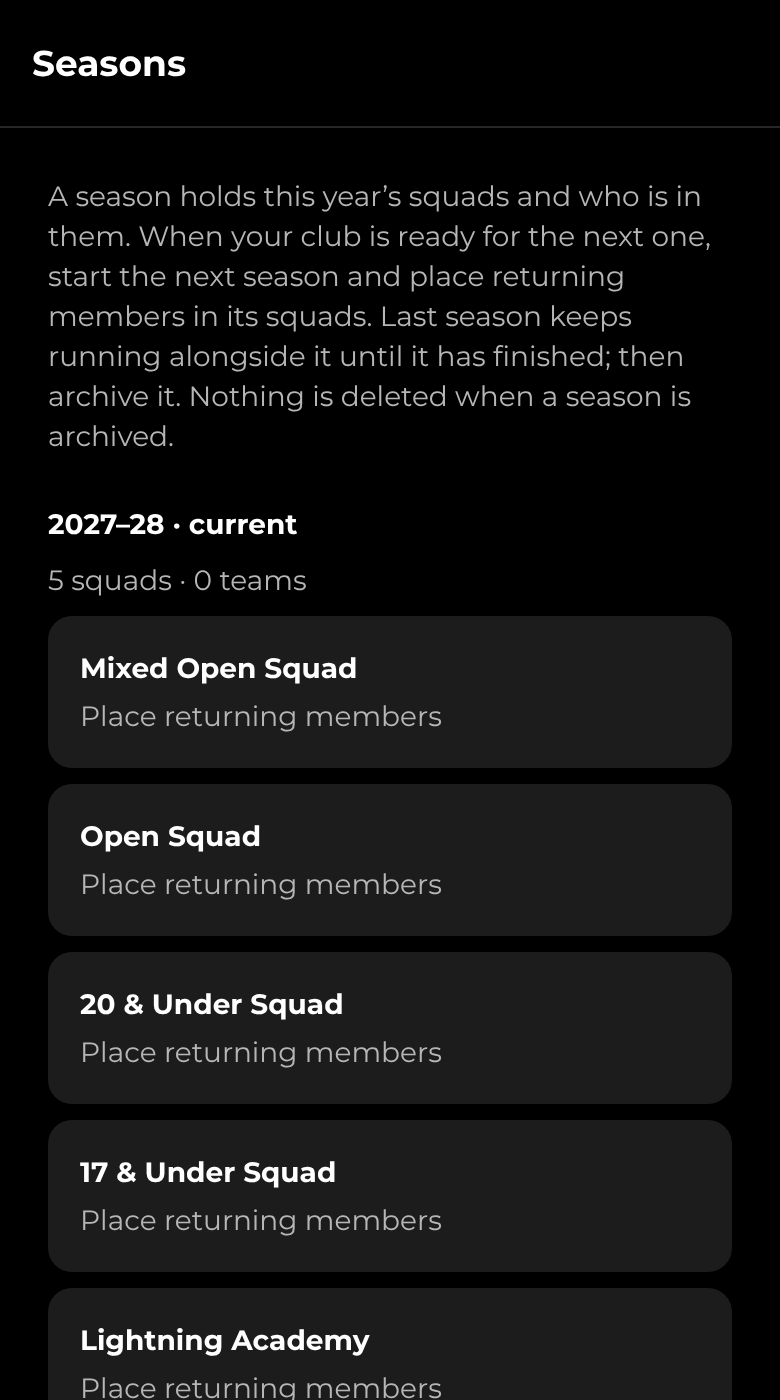
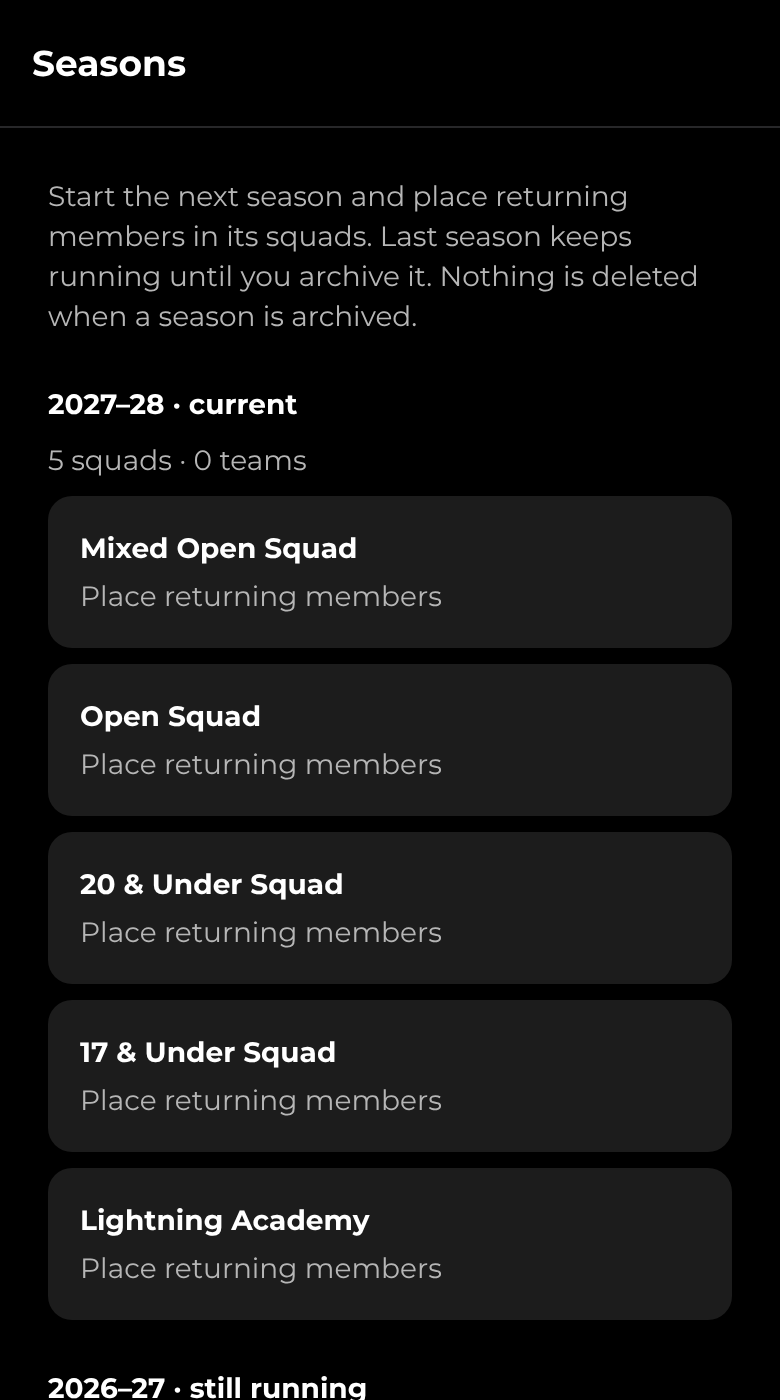
Trim the seasons explanation to what's needed to use the screen
Claude-Session: https://claude.ai/code/session_01HxGQCnUvSVydHnW1SEXAbD

Changed region(s): [[0.0615, 0.1229, 0.9538, 1.0], [0.8615, 0.2764, 0.8923, 0.3071]]

diff --git a/src/app/admin/seasons.tsx b/src/app/admin/seasons.tsx
@@ -62,10 +62,8 @@ export default function SeasonsScreen() {
   return (
     <Screen>
       <ThemedText type="small" themeColor="textSecondary">
-        A season holds this year’s {word}s and who is in them. When your club is ready for the next
-        one, start the next season and place returning members in its {word}s. Last season keeps
-        running alongside it until it has finished; then archive it. Nothing is deleted when a
-        season is archived.
+        Start the next season and place returning members in its {word}s. Last season keeps running
+        until you archive it. Nothing is deleted when a season is archived.
       </ThemedText>
 
       {/* One season at a time: archive last season before starting another. */}

diff --git a/docs/user-guide.md b/docs/user-guide.md
@@ -1004,10 +1004,7 @@ With squads on:
 
 ### Seasons
 
-A season holds the club's squads and teams for one year and who is in them. Each club sets its
-own timing: the season might start at selections and finish a few weeks after the main
-competition, and the dates can move from year to year. **Seasons** handles the change-over
-whenever your club is ready:
+**Seasons** handles the change-over to a new season:
 
 1. **Start the next season.** This creates empty squads with the same names, and their squad
    calendars, for the new season (for example 2027–28). Nobody is moved, and last season keeps
@@ -1207,8 +1204,8 @@ name, the date it was made and page numbers, and anything that needs attention i
   lists everyone with a course not yet approved, in red if a due date has passed, then each course
   lists who must complete it, where they're up to, when they completed it and who checked it.
 - **Attendance** (when Attendance is on): pick the **Period** (last 4 weeks, last 3 months, this
-  season since it was started in **Seasons**, or **Choose dates** for a from and to date) and the
-  **Squads and teams**: **All**, **Whole club events**, or any squads and teams. A squad includes the teams named from it. Each
+  season, or **Choose dates** for a from and to date) and the **Squads and teams**: **All**,
+  **Whole club events**, or any squads and teams. A squad includes the teams named from it. Each
   group lists its athletes with sessions present, absent and their attendance rate, followed by
   every session with who took it.
 - **Award results** (when Awards are on): awards whose voting has closed. Open one for its full
